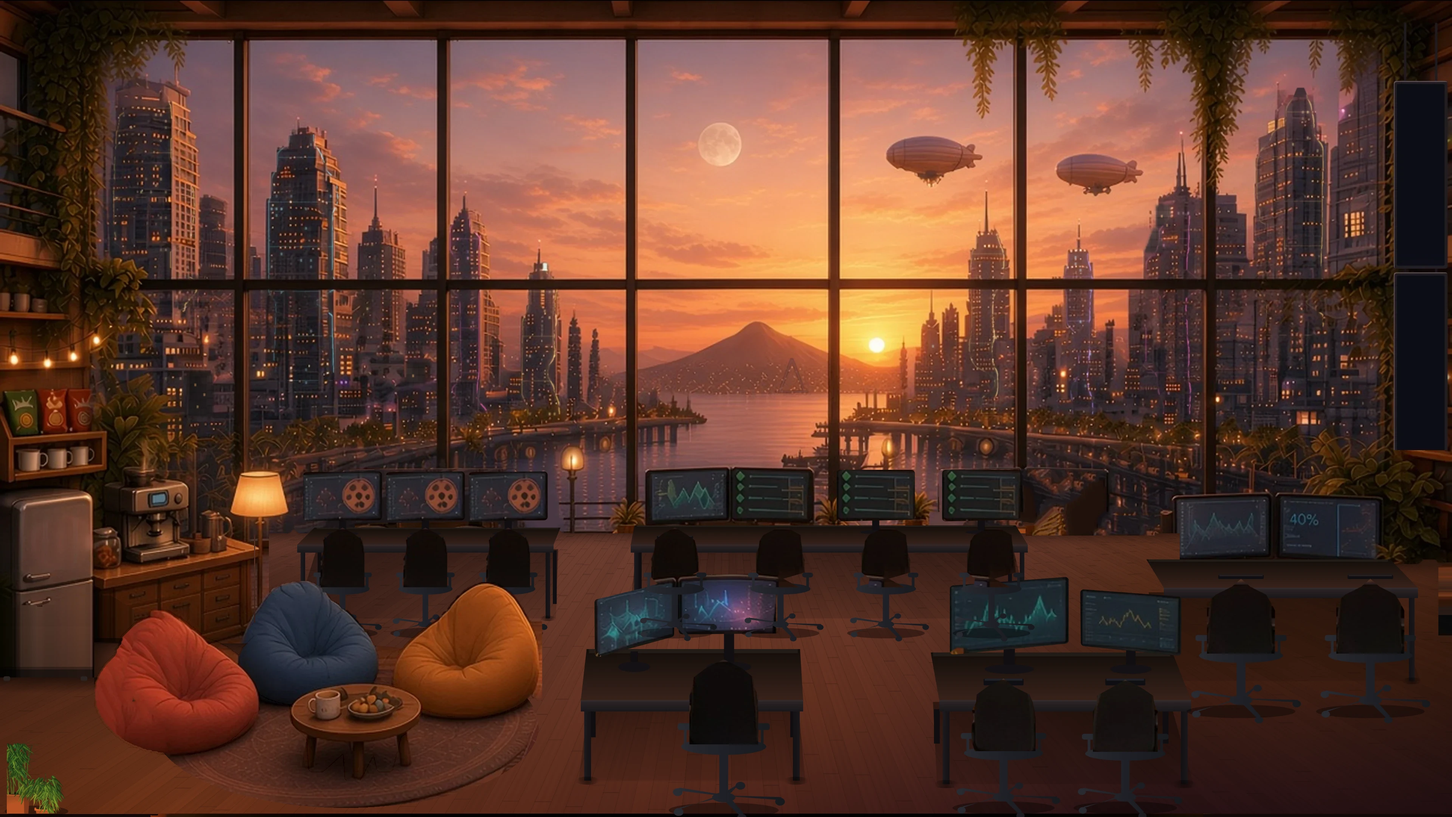
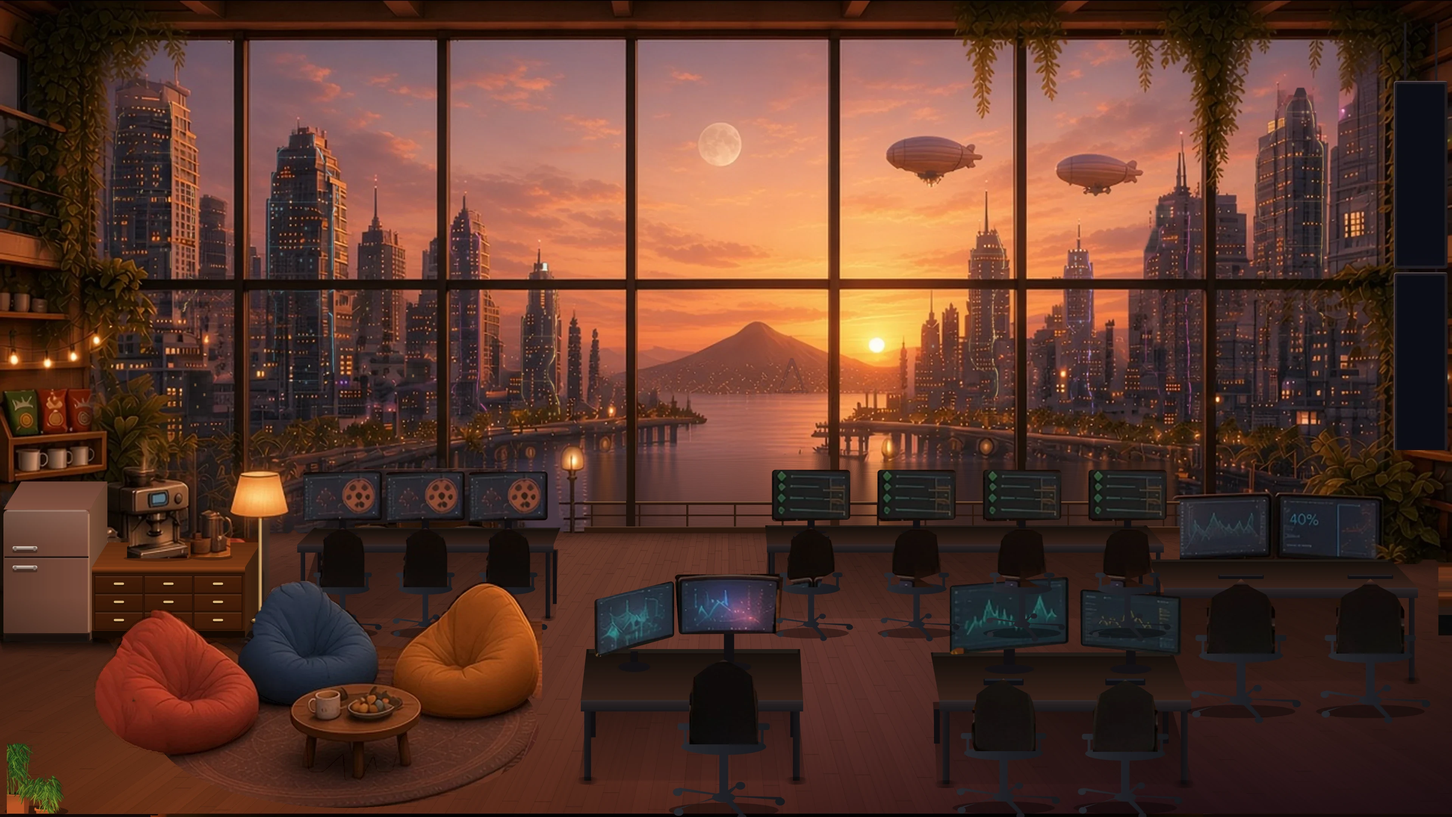
Office: new fridge and stand, clear window view for Grok, river band redrawn, sun and moon paths on the water, YouTube lofi on a 30-minute loop
- Kitchen: retro two-door fridge and the wooden stand drawn new in one three-quarter view (front, side and top along one
  depth vector), coffee machine and canisters kept on the new top, floor lamp pole redrawn.
- Ops/Usage/Archives/Dash desk moved 120 px right, so Grok's view of the window is clear; back-row seats join the walkway at
  the nearest point.
- Window band behind that desk painted new: the river runs on to a balcony rail and the window's bottom frame (no smears).
- Water: the animated layer now covers the new band; a glittering light path under the sun (stronger at golden hour) and
  under the moon at night.
- Music: the button plays "Lofi Trance Mix" by Velvet Vinyl in YouTube's embedded player (first 30 minutes, looping),
  falling back to the generated lofi if YouTube cannot load.
- Art tools read the pre-scene layout from git (74a4042), so run-scene.js can run again on its own output.

Changed region(s): [[0.4062, 0.5583, 0.8125, 0.8065], [0.0, 0.5894, 0.1875, 0.8375], [0.6875, 0.7444, 0.7188, 0.7755]]

diff --git a/portable/art/scene.js b/portable/art/scene.js
@@ -15,7 +15,7 @@ const VP = [640, 330], BOARD = 15;
 export const DESKS = {
   // each desk just covers its monitors and seats, with a small margin (David, 2026-11-10: no empty desk space)
   video: { x0: 262, x1: 488, yb: 465, yf: 480, ye: 487, yfl: 545, leg: 4 },
-  sbp: { x0: 556, x1: 906, yb: 463, yf: 480, ye: 487, yfl: 545, leg: 4 },
+  sbp: { x0: 676, x1: 1026, yb: 463, yf: 480, ye: 487, yfl: 545, leg: 4 }, // 120 px right of where it was: Grok's view of the window stays clear
   housekeeping: { x0: 1026, x1: 1250, yb: 493, yf: 518, ye: 527, yfl: 600, leg: 5 },
   numbers: { x0: 828, x1: 1050, yb: 575, yf: 617, ye: 627, yfl: 691, leg: 6 },
   boss: { x0: 512, x1: 708, yb: 572, yf: 617, ye: 627, yfl: 688, leg: 6 },
@@ -24,7 +24,7 @@ export const DESKS = {
 // seats: [x, chair template seat id]; monitors: [centre x, monitor template] or 'keep' (the painted ones stay where they are)
 export const PLAN = [
   { id: 'video', label: 'Studio · Media · LF', theme: 'video', accent: '#e8806e', bots: [4, 5, 7], seats: [[302, 'v0'], [375, 'v0'], [448, 'v0']], mon: { from: ['video', 0], at: [302, 375, 448] } },
-  { id: 'sbp', label: 'Ops · Usage · Archives · Dash', theme: 'house', accent: '#6fbfd0', bots: [3, 0, 8, 14], seats: [[595, 's0'], [688, 's1'], [781, 's1'], [874, 's1']], mon: 'keep:sbp+add', add: { from: ['sbp', 1], at: [772, 865] } },
+  { id: 'sbp', label: 'Ops · Usage · Archives · Dash', theme: 'house', accent: '#6fbfd0', bots: [3, 0, 8, 14], seats: [[715, 's0'], [808, 's1'], [901, 's1'], [994, 's1']], mon: { from: ['sbp', 1], at: [715, 808, 901, 994] } },
   { id: 'housekeeping', label: 'SB Pallet', theme: 'sbp', accent: '#a6d67e', bots: [6, 9], seats: [[1094, 'h0'], [1208, 'h0']], mon: 'keep:housekeeping' },
   { id: 'numbers', label: 'Numbers', theme: 'numbers', accent: '#f2b85c', bots: [2, 10], seats: [[884.7, 'n0'], [992, 'n1']], mon: 'paste:numbers' },
   { id: 'boss', label: 'Boss', theme: 'boss', accent: '#ecc67c', bots: [1], seats: [[638, 'b0']], mon: 'paste:boss' },
@@ -41,8 +41,8 @@ function solve(A, b) { const n = b.length, M = A.map((r, i) => [...r, b[i]]); fo
 // a gentle fit (quadratic plus the light pools), evaluated only inside the area the painted floor was sampled from, so it cannot run off at the edges
 const basis = (x0, y0) => { const x = Math.max(120, Math.min(1010, x0)), y = Math.max(472, Math.min(714, y0)), u = x / PW, v = (y - 460) / 260; return [1, u, v, u * u, u * v, v * v, ...LIGHTS.map(([cx, cy, r]) => Math.exp(-((x - cx) ** 2 + ((y - cy) * 1.8) ** 2) / (r * r)))]; };
 
-export async function run(base, orig, assets) {
-  const L = await fetch(assets + 'layout.json').then(r => r.json());
+export async function run(base, orig, assets, src = assets) { // src: the layout from before this tool (run-scene.js takes it from git), so it can run again
+  const L = await fetch(src + 'layout.json').then(r => r.json()), waterOld = await img(src + 'water-mask.png');
   const P = { dusk: await img(base + 'plate-dusk-hi.webp'), night: await img(base + 'plate-night-hi.webp') };
   const O = { dusk: await img(orig + 'plate-dusk-hi.webp'), night: await img(orig + 'plate-night-hi.webp') };
   const M = {}; for (const m of ['bag-r', 'bag-b', 'bag-m', 'table', 'room-l']) M[m] = await img(assets + m + '-mask.png');
@@ -87,22 +87,89 @@ export async function run(base, orig, assets) {
     g.putImageData(id, 0, 0);
   }
   log.push('floor');
+  // ---- 1b. the kitchen corner drawn new (David, 2026-11-10): a retro two-door fridge and the wooden stand beside it in one consistent
+  // three-quarter view. Every receding edge runs along the same depth vector DV (a stand's depth: 14 px right, 22 px up), so the fridge
+  // shows its front, its right side and its top, and the stand its top and right end. The fridge is a little deeper than the stand and
+  // both stand against the back wall. The coffee machine and the canisters are kept and stand on the new top; the floor lamp's pole is redrawn.
+  const krgb = (c, m = 1) => `rgb(${c.map(v => Math.max(0, Math.min(255, v * m)) | 0).join(",")})`, DV = [14, -22], FR = { x0: 3, x1: 79, top: 449, base: 565, d: 1.12 }, CT = { x0: 81, x1: 216, top: 500, lip: 505, kick: 556, base: 562 };
+  const fd = [DV[0] * FR.d, DV[1] * FR.d], mv = (p, v, f = 1) => [p[0] + v[0] * f, p[1] + v[1] * f];
+  const frFront = [[FR.x0, FR.top], [FR.x1, FR.top], [FR.x1, FR.base], [FR.x0, FR.base]];
+  const frSide = [[FR.x1, FR.top], mv([FR.x1, FR.top], fd), mv([FR.x1, FR.base], fd), [FR.x1, FR.base]];
+  const frTop = [[FR.x0, FR.top], [FR.x1, FR.top], mv([FR.x1, FR.top], fd), mv([FR.x0, FR.top], fd)];
+  const ctTop = [[CT.x0, CT.top], [CT.x1, CT.top], mv([CT.x1, CT.top], DV), mv([CT.x0, CT.top], DV)];
+  const ctSide = [[CT.x1, CT.top], mv([CT.x1, CT.top], DV), mv([CT.x1, CT.base], DV), [CT.x1, CT.base]];
+  const ctFront = [[CT.x0, CT.top], [CT.x1, CT.top], [CT.x1, CT.base], [CT.x0, CT.base]];
+  const ITEMS = [ // what stands on the stand, traced on the painting (plate px)
+    [[107, 428], [111, 421], [119, 420], [121, 409], [141, 409], [143, 420], [163, 420], [167, 426], [167, 447], [163, 452], [163, 480], [166, 482], [166, 492], [112, 492], [112, 482], [115, 480], [115, 452], [108, 449]],
+    [[168, 452], [176, 446], [190, 446], [199, 451], [203, 458], [203, 491], [168, 491]],
+  ];
+  const POLE = { x: 229.3, y0: 457, y1: 547 };
+  const kitWin = [0, 404, 246, 572], newKit = g => { for (const p of [frFront, frSide, frTop, ctTop, ctSide, ctFront, ...ITEMS]) { poly(g, p); g.fill(); } g.fillRect(203, 404, 50, 54); }; // + the lamp shade
+  const itemsCut = {};
+  for (const k of ['dusk', 'night']) { const m = canvas(W3, H3), mg = ctx(m); mg.setTransform(S, 0, 0, S, 0, 0); mg.fillStyle = '#fff'; for (const p of ITEMS) { poly(mg, p); mg.fill(); }
+    mg.globalCompositeOperation = 'source-in'; mg.setTransform(1, 0, 0, 1, 0, 0); mg.drawImage(hi[k], 0, 0); itemsCut[k] = m; }
+  const kpal = {}; // the painting's own fridge and wood colours
+  for (const k of ['dusk', 'night']) { const g = ctx(hi[k]), avg = (x0, y0, x1, y1) => { const d = g.getImageData(x0 * S, y0 * S, (x1 - x0) * S, (y1 - y0) * S).data; let r = 0, gg = 0, b = 0, n = 0; for (let i = 0; i < d.length; i += 4) { r += d[i]; gg += d[i + 1]; b += d[i + 2]; n++; } return [r / n, gg / n, b / n]; };
+    kpal[k] = { fr: avg(48, 458, 72, 486), wood: avg(150, 512, 206, 534), top: avg(176, 486, 212, 496) }; }
+  { // whatever of the old fridge, stand, jar and pole the new ones do not cover: filled from the wall and floor round them
+    const W = (kitWin[2] - kitWin[0]) * S, H = (kitWin[3] - kitWin[1]) * S;
+    const hole = bitmap(kitWin, g => { g.fillStyle = '#fff'; g.fillRect(0, 426, 86, 141); poly(g, [[82, 474], [236, 474], [236, 567], [82, 567]]); g.fill(); g.fillRect(222, 455, 16, 96); g.globalCompositeOperation = 'destination-out'; newKit(g); });
+    fill([hi.dusk, hi.night], kitWin, hole, hole.map(v => v ? 0 : 1)); }
   for (const k of ['dusk', 'night']) {
-    const g = ctx(hi[k]), id = g.getImageData(0, 0, 84 * S, 610 * S), D = id.data, Wd = 84 * S, top = 552, door = 590, base = 597;
-    for (let X = 0; X < 83 * S; X++) {
-      let r = 0, gg = 0, b = 0, n = 0; for (let Y = 538 * S; Y < 550 * S; Y++) { const o = (Y * Wd + X) * 4; r += D[o]; gg += D[o + 1]; b += D[o + 2]; n++; }
-      r /= n; gg /= n; b /= n;
-      for (let Y = top * S; Y < base * S; Y++) { const y = Y / S, o = (Y * Wd + X) * 4;
-        const m = y < door ? 1 - 0.14 * (y - top) / (door - top) - (y > door - 2.5 ? 0.25 : 0) : 0.38; // the door darkens a little towards its bottom edge, then the recessed kick plate
-        D[o] = r * m; D[o + 1] = gg * m; D[o + 2] = b * m * (y < door ? 1 : 1.08); }
-    }
-    g.putImageData(id, 0, 0);
+    const g = ctx(hi[k]), p = kpal[k], nt = k === 'night', F = p.fr, Wd = p.wood, warm = nt ? 0.75 : 1;
     g.save(); g.setTransform(S, 0, 0, S, 0, 0);
-    const sh = g.createLinearGradient(0, base, 0, base + 14); sh.addColorStop(0, 'rgba(6,3,2,.55)'); sh.addColorStop(1, 'rgba(6,3,2,0)'); g.fillStyle = sh; g.fillRect(0, base, 88, 14); // its shadow on the floor
-    const side = g.createLinearGradient(83, 0, 104, 0); side.addColorStop(0, 'rgba(6,3,2,.5)'); side.addColorStop(1, 'rgba(6,3,2,0)'); g.fillStyle = side; g.fillRect(83, 567, 21, base - 567 + 6); // and beside it, where it stands forward of the counter
-    g.fillStyle = k === 'night' ? '#1a1718' : '#2b2523'; for (const fx2 of [6, 74]) { g.beginPath(); g.roundRect(fx2 - 3, base - 1, 6, 4, 1.5); g.fill(); } // feet
+    const lin = (x0, y0, x1, y1, stops) => { const gr = g.createLinearGradient(x0, y0, x1, y1); stops.forEach(([o, c]) => gr.addColorStop(o, c)); return gr; };
+    // floor shadows: the fridge and the stand sit on the boards
+    g.fillStyle = lin(0, FR.base - 3, 0, FR.base + 12, [[0, 'rgba(6,3,2,.6)'], [1, 'rgba(6,3,2,0)']]); poly(g, [[FR.x0 - 3, FR.base - 2], [FR.x1 + fd[0], FR.base - 2], [FR.x1 + fd[0] + 10, FR.base + 12], [FR.x0, FR.base + 12]]); g.fill();
+    g.fillStyle = lin(0, CT.base - 3, 0, CT.base + 10, [[0, 'rgba(6,3,2,.5)'], [1, 'rgba(6,3,2,0)']]); poly(g, [[CT.x0, CT.base - 2], [CT.x1 + DV[0], CT.base - 2 + DV[1] * 0.2], [CT.x1 + DV[0] + 8, CT.base + 10], [CT.x0, CT.base + 10]]); g.fill();
+    // fridge: side (warmed by the floor lamp beside the stand), top, then the front with its two doors, chrome handles and kick plate
+    g.fillStyle = lin(FR.x1, 0, FR.x1 + fd[0], 0, [[0, krgb(F, 0.86)], [1, krgb(F, 0.62)]]); poly(g, frSide); g.fill();
+    g.fillStyle = `rgba(255,178,110,${0.16 * warm})`; poly(g, frSide); g.fill();
+    g.fillStyle = 'rgba(0,0,0,.35)'; poly(g, [mv([FR.x1, FR.base - 7], fd, 0), mv([FR.x1, FR.base - 7], fd), mv([FR.x1, FR.base], fd), [FR.x1, FR.base]]); g.fill(); // its kick plate runs round the side
+    g.fillStyle = lin(0, FR.top + fd[1], 0, FR.top, [[0, krgb(F, 0.98)], [1, krgb(F, 1.18)]]); poly(g, frTop); g.fill();
+    const fh = FR.base - FR.top, split = FR.top + Math.round(fh * 0.36), kick = FR.base - 7;
+    g.fillStyle = lin(FR.x0, 0, FR.x1, 0, [[0, krgb(F, 0.84)], [0.55, krgb(F, 1)], [1, krgb(F, 1.1)]]); g.beginPath(); g.roundRect(FR.x0, FR.top, FR.x1 - FR.x0, kick - FR.top, [5, 5, 1, 1]); g.fill();
+    g.fillStyle = lin(0, FR.top, 0, kick, [[0, 'rgba(255,240,228,.14)'], [0.3, 'rgba(255,240,228,0)'], [0.7, 'rgba(0,0,0,0)'], [1, 'rgba(0,0,0,.18)']]); g.beginPath(); g.roundRect(FR.x0, FR.top, FR.x1 - FR.x0, kick - FR.top, [5, 5, 1, 1]); g.fill();
+    g.fillStyle = 'rgba(255,236,220,.22)'; g.beginPath(); g.roundRect(FR.x0 + 3, FR.top + 0.6, FR.x1 - FR.x0 - 6, 1.2, 0.6); g.fill(); // light along the rounded top edge
+    g.fillStyle = `rgba(255,196,140,${0.3 * warm})`; g.fillRect(FR.x1 - 1.6, FR.top + 4, 1.6, kick - FR.top - 5); // rim light on the right edge
+    g.fillStyle = krgb(F, 0.32); g.fillRect(FR.x0 + 1, split - 0.8, FR.x1 - FR.x0 - 2, 1.6); g.fillStyle = 'rgba(255,240,228,.16)'; g.fillRect(FR.x0 + 1, split + 0.9, FR.x1 - FR.x0 - 2, 0.7); // the door gap
+    g.fillStyle = krgb(F, 0.3); g.fillRect(FR.x0, kick, FR.x1 - FR.x0, FR.base - kick); g.fillStyle = krgb(F, 0.22); g.fillRect(FR.x0 + 2, kick + 1.5, FR.x1 - FR.x0 - 4, FR.base - kick - 1.5);
+    for (const [x, y] of [[6, FR.base - 1.5], [FR.x1 - 6, FR.base - 1.5]]) { g.fillStyle = '#17120f'; g.beginPath(); g.roundRect(x - 3, y - 1, 6, 3, 1); g.fill(); }
+    for (const hy of [split - 8, split + 9]) { // chrome bar handles on the left of each door
+      g.fillStyle = 'rgba(0,0,0,.3)'; g.beginPath(); g.roundRect(11, hy + 1.4, 22, 3, 1.5); g.fill();
+      g.fillStyle = lin(0, hy - 1.5, 0, hy + 1.5, [[0, nt ? '#b9b6c4' : '#efe2d6'], [0.5, nt ? '#7c7886' : '#a8978c'], [1, nt ? '#4c4854' : '#6e5f58']]); g.beginPath(); g.roundRect(11, hy - 1.5, 22, 3, 1.5); g.fill();
+      g.fillStyle = nt ? '#5c5864' : '#7d6c62'; g.fillRect(12.5, hy - 1, 2, 3.4); g.fillRect(29.5, hy - 1, 2, 3.4); }
+    // the stand: right end, top, front with nine drawers, kick
+    g.fillStyle = lin(CT.x1, 0, CT.x1 + DV[0], 0, [[0, krgb(Wd, 0.72)], [1, krgb(Wd, 0.52)]]); poly(g, ctSide); g.fill();
+    g.fillStyle = 'rgba(0,0,0,.3)'; poly(g, [[CT.x1, CT.kick], mv([CT.x1, CT.kick], DV), mv([CT.x1, CT.base], DV), [CT.x1, CT.base]]); g.fill();
+    g.fillStyle = lin(0, CT.top + DV[1], 0, CT.top, [[0, krgb(p.top, 0.8)], [1, krgb(p.top, 1.06)]]); poly(g, ctTop); g.fill();
+    for (let i = 1; i < 6; i++) { g.strokeStyle = `rgba(40,18,8,${0.06 + 0.03 * (i % 2)})`; g.lineWidth = 0.5; const f = i / 6; g.beginPath(); g.moveTo(CT.x0 + DV[0] * f, CT.top + DV[1] * f); g.lineTo(CT.x1 + DV[0] * f, CT.top + DV[1] * f); g.stroke(); } // grain along the top
+    g.fillStyle = lin(0, CT.top, 0, CT.lip, [[0, krgb(p.top, 1.3)], [0.35, krgb(p.top, 1.08)], [1, krgb(Wd, 0.7)]]); g.fillRect(CT.x0, CT.top, CT.x1 - CT.x0, CT.lip - CT.top);
+    g.fillStyle = krgb(Wd, 0.9); g.fillRect(CT.x0, CT.lip, CT.x1 - CT.x0, CT.kick - CT.lip);
+    g.fillStyle = lin(0, CT.lip, 0, CT.lip + 3, [[0, 'rgba(0,0,0,.35)'], [1, 'rgba(0,0,0,0)']]); g.fillRect(CT.x0, CT.lip, CT.x1 - CT.x0, 3);
+    const cols = 3, rows = 3, cw = (CT.x1 - CT.x0 - 4) / cols, rh = (CT.kick - CT.lip - 3) / rows;
+    for (let c = 0; c < cols; c++) for (let r = 0; r < rows; r++) {
+      const x = CT.x0 + 2 + c * cw + 1, y = CT.lip + 2 + r * rh + 0.8, w = cw - 2, h = rh - 1.6, lit = 0.94 + 0.08 * c / (cols - 1);
+      g.fillStyle = krgb(Wd, 0.55); g.fillRect(x - 0.7, y - 0.7, w + 1.4, h + 1.4);
+      g.fillStyle = lin(0, y, 0, y + h, [[0, krgb(Wd, 1.08 * lit)], [1, krgb(Wd, 0.9 * lit)]]); g.fillRect(x, y, w, h);
+      g.fillStyle = 'rgba(255,226,190,.12)'; g.fillRect(x, y, w, 0.8);
+      for (let j = 0; j < 3; j++) { g.fillStyle = 'rgba(50,22,8,.08)'; g.fillRect(x + 1, y + 2 + j * h / 3.2 + ((c * 7 + r * 3 + j) % 3) * 0.6, w - 2, 0.5); }
+      g.fillStyle = 'rgba(0,0,0,.35)'; g.beginPath(); g.roundRect(x + w / 2 - 4.5, y + h * 0.42 + 0.6, 9, 2.2, 1); g.fill();
+      g.fillStyle = nt ? '#9a8a6a' : '#d9b77a'; g.beginPath(); g.roundRect(x + w / 2 - 4.5, y + h * 0.42 - 0.4, 9, 2, 1); g.fill(); }
+    g.fillStyle = krgb(Wd, 0.32); g.fillRect(CT.x0, CT.kick, CT.x1 - CT.x0, CT.base - CT.kick);
+    g.fillStyle = `rgba(255,178,110,${0.1 * warm})`; poly(g, ctSide); g.fill();
+    // what stands on top, with a soft contact shadow
+    g.fillStyle = 'rgba(20,8,2,.35)'; for (const [cx, cy, rx] of [[139, 492, 30], [186, 491, 19]]) { g.beginPath(); g.ellipse(cx, cy, rx, 3, 0, 0, 7); g.fill(); }
+    g.setTransform(1, 0, 0, 1, 0, 0); g.drawImage(itemsCut[k], 0, 0); g.setTransform(S, 0, 0, S, 0, 0);
+    // the floor lamp's brass pole and foot, beside the stand's right end
+    g.fillStyle = 'rgba(6,3,2,.4)'; g.beginPath(); g.ellipse(POLE.x + 3, POLE.y1 + 1, 12, 3, 0, 0, 7); g.fill();
+    g.fillStyle = lin(POLE.x - 1.6, 0, POLE.x + 1.6, 0, [[0, nt ? '#4a3a26' : '#6b4d2a'], [0.6, nt ? '#a8865a' : '#e2b678'], [1, nt ? '#6a5236' : '#9b7244']]); g.fillRect(POLE.x - 1.6, POLE.y0, 3.2, POLE.y1 - POLE.y0);
+    g.fillStyle = nt ? '#3c2f20' : '#5a4024'; g.beginPath(); g.ellipse(POLE.x, POLE.y1, 8, 2.4, 0, 0, 7); g.fill(); g.fillStyle = nt ? '#8a6e4a' : '#c89c62'; g.beginPath(); g.ellipse(POLE.x, POLE.y1 - 0.8, 7, 1.6, 0, 0, 7); g.fill();
     g.restore();
+    // the bean bags stand in front of the stand: put them back over it
+    const bb = canvas(W3, H3), bg = ctx(bb); bg.setTransform(S, 0, 0, S, 0, 0); for (const n of ['bag-r', 'bag-b', 'bag-m', 'table']) drawMask(bg, n); bg.globalCompositeOperation = 'source-in'; bg.setTransform(1, 0, 0, 1, 0, 0); bg.drawImage(P[k], 0, 0, W3, H3); g.drawImage(bb, 0, 0);
   }
+  log.push('kitchen');
 
   // ---- 2. the back-left desk gets three monitors: the two painted ones are cleared off the window sill first ----
   const vMon = deskById.video.monitors.map(q => q.map(([x, y]) => [x * PW, y * PH]));
@@ -116,6 +183,54 @@ export async function run(base, orig, assets) {
       [[1220, 480, 1275, 500], g => g.fillRect(1250, 488, 20, 10)],
     ]) { const W = (w[2] - w[0]) * S, H = (w[3] - w[1]) * S, hole = dilate(bitmap(w, paint), W, H, 3); fill([hi.dusk, hi.night], w, hole, hole.map(v => v ? 0 : 1)); } }
   log.push('sill');
+  // ---- 2b. the window's lower band behind the back-right desk, painted new (David, 2026-11-10: it was smeared where the old desks had
+  // been cut out). The river runs on from the painted water down to an outdoor balcony rail and the window's bottom frame: each column
+  // carries the colour and the light streaks of the painted water above it, spreading and darkening towards the viewer, with fine
+  // horizontal ripple lines. The mullions run down to the frame. The viewer animates this water as well (water-mask.png). ----
+  const VB = { x0: 515, x1: 1040, rail: 442, mid: 453.5, sill: 464, floor: 470, posts: 42 };
+  const vbTop = x => x < 720 ? 398 : x < 760 ? 398 + (x - 720) / 40 * 7 : 405;
+  const MULL = [[552, 560], [732, 740], [896, 904]], inMull = x => MULL.some(([a, b]) => x >= a - 0.5 && x < b + 0.5);
+  const vbPoly = [[VB.x0, 398], [720, 398], [760, 405], [VB.x1, 405], [VB.x1, VB.floor], [VB.x0, VB.floor]];
+  for (const k of ['dusk', 'night']) {
+    const g = ctx(hi[k]), X0 = VB.x0 * S, X1 = VB.x1 * S, Y0 = 380 * S, Y1 = VB.floor * S, Wb = X1 - X0, Hb = Y1 - Y0;
+    const id = g.getImageData(X0, Y0, Wb, Hb), D = id.data, old = new Uint8ClampedArray(D);
+    // the painted water's colour just above the band, per column (mullion columns bridged from their neighbours)
+    const top = new Float32Array(Wb * 3);
+    for (let X = 0; X < Wb; X++) { const x = (X0 + X) / S, ty = vbTop(x); let r = 0, gg = 0, b = 0, n = 0;
+      for (let Y = Math.round((ty - 6) * S) - Y0; Y < Math.round((ty - 1) * S) - Y0; Y++) { const o = (Y * Wb + X) * 4; r += D[o]; gg += D[o + 1]; b += D[o + 2]; n++; }
+      top[X * 3] = r / n; top[X * 3 + 1] = gg / n; top[X * 3 + 2] = b / n; }
+    for (const [a, b] of MULL) { const A = Math.round((a - 2) * S) - X0, B = Math.round((b + 2) * S) - X0; if (A < 0 || B >= Wb) continue;
+      for (let X = A + 1; X < B; X++) { const f = (X - A) / (B - A); for (let c = 0; c < 3; c++) top[X * 3 + c] = top[A * 3 + c] * (1 - f) + top[B * 3 + c] * f; } }
+    const cum = new Float64Array((Wb + 1) * 3); for (let X = 0; X < Wb; X++) for (let c = 0; c < 3; c++) cum[(X + 1) * 3 + c] = cum[X * 3 + c] + top[X * 3 + c];
+    const blurAt = (X, r, c) => { const a = Math.max(0, X - r), b = Math.min(Wb, X + r + 1); return (cum[b * 3 + c] - cum[a * 3 + c]) / (b - a); };
+    const deep = [0, 1, 2].map(c => blurAt(Wb >> 1, Wb, c) * (k === 'night' ? 0.62 : 0.56));
+    const mullC = MULL.map(([a, b]) => { const cols = []; for (let X = Math.round(a * S) - X0; X < Math.round(b * S) - X0; X++) { let r = 0, gg = 0, bb = 0, n = 0; for (let Y = 384 * S - Y0; Y < 396 * S - Y0; Y++) { const o = (Y * Wb + X) * 4; r += D[o]; gg += D[o + 1]; bb += D[o + 2]; n++; } cols.push([r / n, gg / n, bb / n]); } return { a, cols }; });
+    for (let Y = 0; Y < Hb; Y++) for (let X = 0; X < Wb; X++) {
+      const x = (X0 + X) / S, y = (Y0 + Y) / S, ty = vbTop(x); if (y < ty) continue;
+      const o = (Y * Wb + X) * 4, t = Math.min(1, (y - ty) / (VB.sill - ty));
+      const r = Math.round((1 + 9 * t) * S), mix = 0.12 + 0.5 * t;
+      const rip = 1 + 0.07 * Math.sin(y * 2 * Math.PI / (2 + 2.6 * t) + Math.sin(x * 0.045 + y * 0.3) * 2.2) * (0.55 + 0.45 * Math.sin(x * 0.11 + y * 1.7));
+      let c = [0, 1, 2].map(ch => (blurAt(X, r, ch) * (1 - mix) + deep[ch] * mix) * rip);
+      const fe = Math.min(1, (y - ty) / 3, (x - VB.x0) / 8, (VB.x1 - x) / 8); // blend into the painting at the top and the ends
+      for (let ch = 0; ch < 3; ch++) D[o + ch] = old[o + ch] * (1 - fe) + c[ch] * fe;
+    }
+    // mullions down to the frame
+    for (const { a, cols } of mullC) for (let i = 0; i < cols.length; i++) { const X = Math.round(a * S) - X0 + i; if (X < 0 || X >= Wb) continue;
+      for (let Y = 396 * S - Y0; Y < VB.floor * S - Y0; Y++) { const o = (Y * Wb + X) * 4, f = 1 - 0.18 * (Y - (396 * S - Y0)) / (Hb - (396 * S - Y0)); for (let c = 0; c < 3; c++) D[o + c] = cols[i][c] * f; } }
+    g.putImageData(id, X0, Y0);
+    // the balcony rail outside the glass, then the window's bottom frame; mullions stay in front of the rail
+    const ml = mullC[1].cols[Math.floor(mullC[1].cols.length / 2)], frame = ml.map(v => v * 0.85), nt = k === 'night';
+    g.save(); g.setTransform(S, 0, 0, S, 0, 0); g.beginPath(); g.rect(VB.x0, 380, VB.x1 - VB.x0, 100); g.clip();
+    const railC = `rgb(${frame.map(v => v * 0.9 | 0)})`;
+    for (let x = VB.x0 + 6; x < VB.x1; x += VB.posts) if (!inMull(x) && !inMull(x + 2)) { g.fillStyle = railC; g.fillRect(x, VB.rail, 2, VB.sill - VB.rail); g.fillStyle = 'rgba(255,220,180,.08)'; g.fillRect(x + 1.3, VB.rail, 0.7, VB.sill - VB.rail); }
+    g.fillStyle = railC; g.fillRect(VB.x0, VB.mid, VB.x1 - VB.x0, 1.4);
+    g.fillRect(VB.x0, VB.rail, VB.x1 - VB.x0, 3); g.fillStyle = nt ? 'rgba(170,180,230,.22)' : 'rgba(255,196,140,.42)'; g.fillRect(VB.x0, VB.rail, VB.x1 - VB.x0, 0.8); // the rail's top catches the sky
+    g.fillStyle = `rgb(${frame.map(v => v | 0)})`; g.fillRect(VB.x0, VB.sill, VB.x1 - VB.x0, VB.floor - VB.sill);
+    g.fillStyle = nt ? 'rgba(160,170,220,.12)' : 'rgba(255,200,150,.2)'; g.fillRect(VB.x0, VB.sill, VB.x1 - VB.x0, 0.8);
+    g.restore();
+    g.save(); g.setTransform(S, 0, 0, S, 0, 0); for (const { a, cols } of mullC) { g.fillStyle = `rgb(${cols[Math.floor(cols.length / 2)].map(v => v * 0.92 | 0)})`; g.fillRect(a, VB.rail - 1, cols.length / S, VB.sill - VB.rail + 1); } g.restore();
+  }
+  log.push('window band');
 
   // ---- 3. desks ----
   const pal = {}; // the boss desk's own colours in each picture
@@ -228,12 +343,25 @@ export async function run(base, orig, assets) {
   const plantMask = (() => { const m = canvas(Math.round(pr[2] * 2), Math.round(pr[3] * 2)), g = ctx(m); g.drawImage(M['room-l'], 0, 0, m.width, m.height); return { rect: [pr[0] / PW, pr[1] / PH, (pr[0] + pr[2]) / PW, (pr[1] + pr[3]) / PH], png: m.toDataURL('image/png') }; })();
   log.push('plant');
 
+  // ---- 7b. where the viewer animates water: the painted river (the old mask) and the new band, minus rail, posts, mullions and monitors ----
+  const waterOut = (() => { const r = [392, 352, VB.x1, VB.sill], m = canvas((r[2] - r[0]) * 2, (r[3] - r[1]) * 2), g = ctx(m); g.setTransform(2, 0, 0, 2, -r[0] * 2, -r[1] * 2);
+    const [a, b, c, d] = L.masks.water; g.drawImage(waterOld, a * PW, b * PH, (c - a) * PW, (d - b) * PH);
+    g.fillStyle = '#fff'; poly(g, [[VB.x0, 398], [720, 398], [760, 405], [VB.x1, 405], [VB.x1, VB.sill], [VB.x0, VB.sill]]); g.fill();
+    g.globalCompositeOperation = 'destination-out'; g.fillStyle = '#000'; g.strokeStyle = '#000';
+    g.fillRect(r[0], VB.rail - 0.6, r[2] - r[0], 4.2); g.fillRect(r[0], VB.mid - 0.6, r[2] - r[0], 2.6);
+    for (let x = VB.x0 + 6; x < VB.x1; x += VB.posts) g.fillRect(x - 0.6, VB.rail, 3.2, VB.sill - VB.rail);
+    for (const [a2, b2] of MULL) g.fillRect(a2 - 0.6, 396, b2 - a2 + 1.2, VB.sill - 396);
+    g.lineWidth = 5; g.lineJoin = 'round'; for (const qs of Object.values(quadsOut)) for (const q of qs) { poly(g, q); g.fill(); g.stroke(); }
+    return { rect: [r[0] / PW, r[1] / PH, r[2] / PW, r[3] / PH], png: m.toDataURL('image/png') }; })();
+
   // ---- 8. the viewer's layout ----
   const lay = JSON.parse(JSON.stringify(L)), nav = L.nav.nodes.map(([x, y]) => [x * PW, y * PH]);
-  const seatNode = t => t.node;
+  // a back-row seat joins the walkway behind the desks at the walkway point nearest to it (the seats moved since the template's own)
+  const AISLE = L.nav.nodes.map((p, i) => [i, p]).filter(([, p]) => Math.abs(p[1] - 0.7861) < 0.004);
+  const seatNode = (t, x) => t.feet[1] > 0.78 && t.feet[1] < 0.8 ? AISLE.reduce((b, a) => Math.abs(a[1][0] * PW - x) < Math.abs(b[1][0] * PW - x) ? a : b)[0] : t.node;
   lay.desks = PLAN.map(d => ({ id: d.id, label: d.label, theme: d.theme, accent: d.accent, bots: d.bots,
     monitors: quadsOut[d.id].map(q => q.map(([x, y]) => [+(x / PW).toFixed(4), +(y / PH).toFixed(4)])),
-    seats: seatsOut.filter(s => s.desk === d.id).map(s => ({ ...JSON.parse(JSON.stringify(s.t)), id: `${d.id[0]}${s.i}`, x: s.x / PW, chair: s.back.map(([x, y]) => [x / PW, y / PH]), feet: [s.t.feet[0] + s.dx / PW, s.t.feet[1]], node: seatNode(s.t), nc: `${d.id[0]}${s.i}` })) }));
+    seats: seatsOut.filter(s => s.desk === d.id).map(s => ({ ...JSON.parse(JSON.stringify(s.t)), id: `${d.id[0]}${s.i}`, x: s.x / PW, chair: s.back.map(([x, y]) => [x / PW, y / PH]), feet: [s.t.feet[0] + s.dx / PW, s.t.feet[1]], node: seatNode(s.t, s.x), nc: `${d.id[0]}${s.i}` })) }));
   lay.desks.push({ ...JSON.parse(JSON.stringify(deskById.lounge)), bots: [] });
   lay.nochair = Object.fromEntries(atlasParts.map(p => [`${p.s.desk[0]}${p.s.i}`, [p.ax, 0, p.w * 2, p.h * 2, p.x0, p.y0]]));
   lay.boss.monitors = L.boss.monitors;
@@ -241,9 +369,11 @@ export async function run(base, orig, assets) {
   lay.lamps = L.lamps.filter(l => l.desk !== 'boss'); // and so is the boss desk lamp
   lay.masks.boss = masksOut.boss.rect; lay.masks['desk-fr'] = masksOut['desk-fr'].rect; lay.masks['plant-l'] = plantMask.rect;
   delete lay.masks['room-l']; delete lay.masks['room-r'];
+  lay.masks.water = waterOut.rect; lay.nearGlass = [VB.x0 / PW, VB.x1 / PW, VB.sill / PH]; // the animated water reaches down into the window band
+  lay.sun = [771 / PW, 304 / PH]; lay.moon = [634 / PW, 128 / PH]; // where the painted sun and moon are: their light paths on the water
   lay.note = (L.note || '') + '; v11: office rebuilt by portable/art/scene.js (clean floor, black four-leg desks, one monitor per bot, team desks)';
   const lo = {}; for (const k of ['dusk', 'night']) { lo[k] = canvas(2560, 1440); const g = ctx(lo[k]); g.imageSmoothingQuality = 'high'; g.drawImage(hi[k], 0, 0, 2560, 1440); }
   window.__sceneOut = { 'layout.json': JSON.stringify(lay), 'plate-dusk-hi.webp': hi.dusk.toDataURL('image/webp', 0.9), 'plate-night-hi.webp': hi.night.toDataURL('image/webp', 0.9), 'plate-dusk.webp': lo.dusk.toDataURL('image/webp', 0.9), 'plate-night.webp': lo.night.toDataURL('image/webp', 0.9),
-    'nochair-dusk.webp': atlas.dusk.toDataURL('image/webp', 0.92), 'nochair-night.webp': atlas.night.toDataURL('image/webp', 0.92), 'boss-mask.png': masksOut.boss.png, 'desk-fr-mask.png': masksOut['desk-fr'].png, 'plant-l-mask.png': plantMask.png };
+    'nochair-dusk.webp': atlas.dusk.toDataURL('image/webp', 0.92), 'nochair-night.webp': atlas.night.toDataURL('image/webp', 0.92), 'boss-mask.png': masksOut.boss.png, 'desk-fr-mask.png': masksOut['desk-fr'].png, 'plant-l-mask.png': plantMask.png, 'water-mask.png': waterOut.png };
   return log;
 }

diff --git a/public/office2d/fx.js b/public/office2d/fx.js
@@ -16,6 +16,12 @@ export function glowSprite(rgb, size = 64, core = 0.25) {
   gr.addColorStop(0, `rgba(${rgb},1)`); gr.addColorStop(core, `rgba(${rgb},.5)`); gr.addColorStop(0.6, `rgba(${rgb},.12)`); gr.addColorStop(1, `rgba(${rgb},0)`);
   g.fillStyle = gr; g.fillRect(0, 0, size, size); return c;
 }
+// soft vertical column of light for the water (sun / moon path): strong just under the horizon, fading towards the viewer
+function pathSprite(rgb) {
+  const c = canvas(48, 128), g = c.getContext('2d');
+  for (let x = 0; x < 48; x++) { const h = Math.exp(-(((x + 0.5) / 48 - 0.5) ** 2) / 0.03), gr = g.createLinearGradient(0, 0, 0, 128); gr.addColorStop(0, `rgba(${rgb},${h})`); gr.addColorStop(0.35, `rgba(${rgb},${0.55 * h})`); gr.addColorStop(1, `rgba(${rgb},${0.12 * h})`); g.fillStyle = gr; g.fillRect(x, 0, 1, 128); }
+  return c;
+}
 // horizontal light trail: bright at the left end, fading to the right, soft top/bottom
 function streakSprite(rgb, w = 128, h = 16) {
   const c = canvas(w, h), g = c.getContext('2d');
@@ -137,9 +143,14 @@ export function makeFx(L, rnd, img) {
   // frame / vines / interior are redrawn from the plate on top (fg mask) -> nothing city-related over a mullion
   const glass = new Path2D(), TR0 = (L.transom || [0.34, 0.354])[0] * PH, TR1 = (L.transom || [0.34, 0.354])[1] * PH;
   for (const [a, b] of (L.panes || [[WX0 / PW, WX1 / PW]])) { glass.rect(a * PW, WY0, (b - a) * PW, TR0 - WY0); glass.rect(a * PW, TR1, (b - a) * PW, WY1 - TR1); }
+  if (L.nearGlass) { const [a, b, y1] = L.nearGlass; glass.rect(a * PW, WY1, (b - a) * PW, y1 * PH - WY1); } // the window band behind the back-right desk: only the water draws there (water-mask.png)
   const paneCount = (L.panes || [0]).length * 2;
   const wbox = L.masks.water ? [L.masks.water[0] * PW, L.masks.water[1] * PH, L.masks.water[2] * PW, L.masks.water[3] * PH] : null;
   let waterC = null, waterG = null;
+  // light paths on the water (David, 2026-11-10): under the painted sun a column of glitter that flickers and drifts on the swell, warm at
+  // sunset, and under the moon a cooler one at night. Far glints are small and packed, near ones larger and spread wider (perspective).
+  const lightPaths = [['sun', '255,196,118'], ['moon', '214,224,255']].filter(([k]) => L[k] && wbox).map(([k, c]) => ({ k, x: L[k][0] * PW, col: glowSprite(c, 32, 0.3), sheen: pathSprite(c),
+    gl: Array.from({ length: 110 }, () => { const v = Math.pow(rnd(), 0.8); return { v, u: (rnd() + rnd() + rnd() - 1.5) / 1.5, ph: rnd() * 7, sp: 1.2 + rnd() * 3.4, w: 0.7 + rnd() * 0.9 }; }) }));
   const vwake = vWakeSprite(), wakes = []; for (let i = 0; i < 48; i++) wakes.push({ on: false, x: 0, y: 0, age: 0, dir: 1, sc: 1 });
   const neon = (L.neon || []).map(([x0, y0, x1, y1, rgb]) => ({ x0: x0 * PW, y0: y0 * PH, x1: x1 * PW, y1: y1 * PH, glow: glowSprite(rgb.join(','), 64, 0.3), v: 1, t: 8 + rnd() * 30, buzz: 0, off: 0, ph: rnd() * 7 }));
   const darkBlob = glowSprite('22,14,34', 32, 0.5);
@@ -515,6 +526,19 @@ export function makeFx(L, rnd, img) {
           g.globalCompositeOperation = op; g.globalAlpha = a * (0.6 + 0.4 * i / bands);
           const off = ((t * (3 + 4 * i) * dir) % tw + tw) % tw;
           for (let x = x0 - off; x < x1; x += tw) g.drawImage(tex, x, ya, tw, hb);
+        }
+      }
+      // the sun's and the moon's paths: a soft column, then glitter that comes and goes on the swell
+      g.globalCompositeOperation = 'lighter';
+      for (const P of lightPaths) {
+        const A = P.k === 'sun' ? (1 - env.n) * (0.55 + 0.45 * env.golden) * 1.25 : env.n * 0.85; if (A < 0.02) continue;
+        const top = y0 + 1, H = y1 - top, sway = Math.sin(t * 0.21) * 1.5;
+        g.globalAlpha = A * (P.k === 'sun' ? 0.32 : 0.22) * (0.9 + 0.1 * Math.sin(t * 0.7)); g.drawImage(P.sheen, P.x - 9 + sway, top, 18, H * 0.55); g.drawImage(P.sheen, P.x - 26 + sway, top + H * 0.15, 52, H * 0.85);
+        const ng = Math.round(P.gl.length * (0.45 + 0.55 * fxq));
+        for (let i = 0; i < ng; i++) {
+          const q = P.gl[i], f = Math.sin(t * q.sp + q.ph); if (f <= 0.2) continue;
+          const y = top + H * q.v, half = 2.5 + 26 * q.v, x = P.x + sway + q.u * half + Math.sin(t * 0.5 + q.ph) * (0.5 + 2 * q.v), w = (1.6 + 6 * q.v) * q.w, h = 0.7 + 1.3 * q.v;
+          g.globalAlpha = A * f * f * f * (0.95 - 0.35 * Math.abs(q.u)); g.drawImage(P.col, x - w, y - h, w * 2, h * 2);
         }
       }
       // shimmering vertical reflections of the city lights (stronger at night)

diff --git a/public/audio.js b/public/audio.js
@@ -1,4 +1,5 @@
-// Original 90s-style lofi hip-hop, synthesized live with WebAudio (no files, no samples). Music only, no atmosphere beds. Off by default.
+// Music. The button plays the Lofi Trance Mix by Velvet Vinyl in YouTube's embedded player (bottom of this file); if YouTube cannot load,
+// this original 90s-style lofi hip-hop, synthesized live with WebAudio (no files, no samples), plays instead. Off by default.
 // Nothing ever restarts: the groove is scheduled bar by bar forever (the chords and the voicings drift, seeded).
 'use strict';
 (function () {
@@ -84,7 +85,7 @@ const tick = () => pump(ctx.currentTime + LOOK);
 function init(c) {
   ctx = c; const n = ctx.createBuffer(1, Math.floor(ctx.sampleRate * 2), ctx.sampleRate); white(n.getChannelData(0)); nb = n; build();
 }
-AC.music = {
+const synth = {
   on: false,
   toggle() {
     if (!ctx) init(new (window.AudioContext || window.webkitAudioContext)());
@@ -104,5 +105,43 @@ AC.music = {
     const c = new OfflineAudioContext(2, 44100 * sec, 44100), keep = [ctx, nextT, bar]; bar = 0; nextT = 0.1; init(c); master.gain.value = MIX; pump(sec);
     const buf = await c.startRendering(); ctx = keep[0]; nextT = keep[1]; bar = keep[2]; return buf;
   },
+};
+// The music (David, 2026-11-10): "Lofi Trance Mix" by Velvet Vinyl on YouTube (HTOf4foA5LE), its first 30 minutes on a loop. It plays in
+// YouTube's own embedded player, shown small in the corner while it plays (YouTube's terms ask for a visible player of at least
+// 200 x 200 px); nothing is downloaded or re-hosted. youtube-nocookie.com: no tracking cookies until it plays. If YouTube cannot load
+// (offline, blocked, an old TV browser), the generated lofi above plays instead.
+const YT_ID = 'HTOf4foA5LE', LOOP_S = 1800;
+let yt = null, ytBox = null, ytReady = false, ytFailed = false, ytLoop = null;
+function ytOpen() {
+  ytBox = document.createElement('div'); ytBox.id = 'yt';
+  ytBox.style.cssText = 'position:fixed;right:14px;bottom:46px;width:200px;height:200px;z-index:3;border-radius:12px;overflow:hidden;background:#000;box-shadow:0 6px 24px rgba(0,0,0,.45)';
+  const f = document.createElement('iframe'); f.title = 'Lofi Trance Mix (Velvet Vinyl) on YouTube'; f.width = '200'; f.height = '200';
+  f.src = 'https://www.youtube-nocookie.com/embed/' + YT_ID + '?enablejsapi=1&autoplay=1&playsinline=1&rel=0&start=0&end=' + LOOP_S + '&origin=' + encodeURIComponent(location.origin);
+  f.allow = 'autoplay; encrypted-media; picture-in-picture'; f.referrerPolicy = 'strict-origin-when-cross-origin'; f.style.cssText = 'border:0;width:100%;height:100%';
+  ytBox.appendChild(f); document.body.appendChild(ytBox);
+  const made = () => { try { yt = new window.YT.Player(f, { events: {
+    onReady: e => { ytReady = true; if (AC.music.on) e.target.playVideo(); },
+    onStateChange: e => { if (e.data === 0) { e.target.seekTo(0, true); e.target.playVideo(); } }, // ended (at 30:00): back to the start
+    onError: () => fallback() } }); } catch (e) { fallback(); } };
+  if (window.YT && window.YT.Player) made(); else { const prev = window.onYouTubeIframeAPIReady; window.onYouTubeIframeAPIReady = () => { if (prev) prev(); made(); };
+    const s = document.createElement('script'); s.src = 'https://www.youtube.com/iframe_api'; s.onerror = fallback; document.head.appendChild(s); }
+  setTimeout(() => { if (!ytReady) fallback(); }, 12000);
+  ytLoop = setInterval(() => { try { if (ytReady && AC.music.on && yt.getCurrentTime() >= LOOP_S - 1) yt.seekTo(0, true); } catch (e) {} }, 4000);
+}
+function fallback() {
+  if (ytFailed) return; ytFailed = true; clearInterval(ytLoop); if (ytBox) ytBox.remove(); ytBox = null;
+  if (AC.music.on && !synth.on) synth.toggle();
+}
+AC.music = {
+  on: false,
+  toggle() {
+    this.on = !this.on;
+    if (ytFailed) { if (synth.on !== this.on) synth.toggle(); return this.on; }
+    if (this.on) { if (!ytBox) ytOpen(); else { ytBox.style.display = ''; if (ytReady) yt.playVideo(); } }
+    else if (ytBox) { if (ytReady) yt.pauseVideo(); ytBox.style.display = 'none'; }
+    return this.on;
+  },
+  _render: synth._render,
+  _state() { try { return ytFailed ? 'synth' : ytReady ? { state: yt.getPlayerState(), at: Math.round(yt.getCurrentTime()) } : 'loading'; } catch (e) { return 'error'; } }, // check aid
 };
 })();

diff --git a/portable/art/run-room.js b/portable/art/run-room.js
@@ -14,9 +14,11 @@ const out = path.resolve(process.argv[2] || 'art-room'), only = process.argv[3] 
 fs.mkdirSync(out, { recursive: true }); fs.mkdirSync(path.join(prev, 'orig'), { recursive: true });
 for (const f of ['room.js', 'inpaint.js']) fs.copyFileSync(path.join(__dirname, f), path.join(prev, f));
 for (const f of ['plate-dusk.webp', 'plate-night.webp', 'plate-dusk-hi.webp', 'plate-night-hi.webp', 'nochair-dusk.webp']) fs.writeFileSync(path.join(prev, 'orig', f), execFileSync('git', ['show', '83b9edb:public/office2d/assets/' + f], { cwd: root, maxBuffer: 1 << 28 }));
+fs.mkdirSync(path.join(prev, 'scene-src'), { recursive: true }); // the layout from before the scene build (74a4042): the room tool reads the seed desks and masks
+for (const f of ['layout.json', 'water-mask.png']) fs.writeFileSync(path.join(prev, 'scene-src', f), execFileSync('git', ['show', '74a4042:public/office2d/assets/' + f], { cwd: root, maxBuffer: 1 << 28 }));
 const arg = only ? JSON.stringify(only.split(',')) : 'null';
 const res = execFileSync(process.execPath, [path.join(root, 'portable', 'shot.js'), '--url', 'http://127.0.0.1:8791/?q=0&notags=1', '--size', '400x300', '--wait', '1',
-  '--js', `import('/room.js').then(m => m.run('/orig/', '/office2d/assets/', ${arg})).then(r => { window.__roomDone = r; }, e => { window.__roomDone = { error: String(e && e.stack || e) }; })`,
+  '--js', `import('/room.js').then(m => m.run('/orig/', '/office2d/assets/', ${arg}, '/scene-src/')).then(r => { window.__roomDone = r; }, e => { window.__roomDone = { error: String(e && e.stack || e) }; })`,
   '--print', 'JSON.stringify({ done: window.__roomDone, out: window.__roomOut })', '--out', path.join(out, 'page.png')], { maxBuffer: 1 << 30 }).toString();
 const line = res.split('\n').find(l => l.startsWith('"{'));
 const j = JSON.parse(JSON.parse(line));

diff --git a/portable/art/run-scene.js b/portable/art/run-scene.js
@@ -15,8 +15,11 @@ fs.mkdirSync(out, { recursive: true });
 node(path.join(root, 'portable', 'rebuild.js'));
 console.log(node(path.join(__dirname, 'run-room.js'), path.join(prev, 'scene-base'), 'bamboo').trim().split('\n').pop().slice(0, 80));
 fs.copyFileSync(path.join(__dirname, 'scene.js'), path.join(prev, 'scene.js'));
+// the layout and water mask from before the first scene build (74a4042), so the tool can be run again on top of its own output
+fs.mkdirSync(path.join(prev, 'scene-src'), { recursive: true });
+for (const f of ['layout.json', 'water-mask.png']) fs.writeFileSync(path.join(prev, 'scene-src', f), execFileSync('git', ['show', '74a4042:public/office2d/assets/' + f], { cwd: root, maxBuffer: 1 << 28 }));
 const res = node(path.join(root, 'portable', 'shot.js'), '--url', 'http://127.0.0.1:8791/?q=0&notags=1', '--size', '400x300', '--wait', '1',
-  '--js', "import('/scene.js').then(m => m.run('/scene-base/', '/orig/', '/office2d/assets/')).then(r => { window.__sceneDone = r; }, e => { window.__sceneDone = { error: String(e && e.stack || e) }; })",
+  '--js', "import('/scene.js').then(m => m.run('/scene-base/', '/orig/', '/office2d/assets/', '/scene-src/')).then(r => { window.__sceneDone = r; }, e => { window.__sceneDone = { error: String(e && e.stack || e) }; })",
   '--print', 'JSON.stringify({ done: window.__sceneDone, out: window.__sceneOut })', '--out', path.join(out, 'page.png'));
 const j = JSON.parse(JSON.parse(res.split('\n').find(l => l.startsWith('"{'))));
 console.log(JSON.stringify(j.done).slice(0, 300));

diff --git a/public/office2d/index.html b/public/office2d/index.html
@@ -20,7 +20,7 @@ body.lite #tags .w { will-change: auto; }
 <canvas id="office" aria-label="Agent City office: each bot is a worker at a desk"></canvas>
 <div id="tags"></div>
 <button type="button" id="refresh" title="Refresh live data (once per hour)" aria-label="Refresh live data">↻</button><span id="last-update"></span><div id="refresh-toast" role="status" aria-live="polite"></div>
-<div id="ctrl"><button class="m" id="music" aria-pressed="false" title="90s lofi (generated live, no files)">♪ lofi off</button><a class="m" href="/logout">sign out</a></div>
+<div id="ctrl"><button class="m" id="music" aria-pressed="false" title="Lofi Trance Mix by Velvet Vinyl (YouTube player, first 30 minutes on a loop)">♪ lofi off</button><a class="m" href="/logout">sign out</a></div>
 <div id="card" role="dialog" aria-label="Worker card"></div>
 <ul id="roster" class="sr" aria-label="Workers"></ul>
 <div id="fps" hidden></div>

diff --git a/portable/art/room.js b/portable/art/room.js
@@ -154,9 +154,9 @@ function prefill(cvs, w, hole) {
   }
 }
 
-export async function run(orig, assets, only) {
+export async function run(orig, assets, only, src = assets) { // src: the layout from before the scene build (run-room.js takes it from git)
   const t0 = performance.now(), log = [];
-  const L = await fetch(assets + 'layout.json').then(r => r.json());
+  const L = await fetch(src + 'layout.json').then(r => r.json());
   const masks = {}; for (const m of ['room-l', 'room-r', 'bag-r', 'bag-b', 'bag-m', 'table']) masks[m] = await img(assets + m + '-mask.png');
   const P = { dusk: await img(orig + 'plate-dusk-hi.webp'), night: await img(orig + 'plate-night-hi.webp') }, LO = { dusk: await img(orig + 'plate-dusk.webp'), night: await img(orig + 'plate-night.webp') };
   const NC = await img(orig + 'nochair-dusk.webp'); // the patch shapes (alpha); both atlases share them

diff --git a/public/office2d/main.js b/public/office2d/main.js
@@ -10,7 +10,7 @@ import { makeFx, glowSprite, px, polyPath } from './fx.js';
 import { BOTS, behaviorOf, LOITER, DOG_MOODS, DOG, WALK, PROPS, QUALITY, LITE, REFRESH } from './config.js';
 
 const STATIC = !!window.AC_STATIC; // GitHub Pages build (bin/pages-build.sh): relative URLs, state.json polled instead of /api/*
-const PW = 1280, PH = 720, A = (STATIC ? '' : '/') + 'office2d/assets/', V = '?v=24'; // V: busts the 1 h asset cache when the art set changes
+const PW = 1280, PH = 720, A = (STATIC ? '' : '/') + 'office2d/assets/', V = '?v=25'; // V: busts the 1 h asset cache when the art set changes
 const q = new URLSearchParams(location.search);
 const DEMO = q.get('demo') === '1', EMBED = q.get('embed') === '1', NOTAGS = q.get('notags') === '1'; // notags: screenshot aid only
 if (EMBED) document.body.classList.add('embed');
